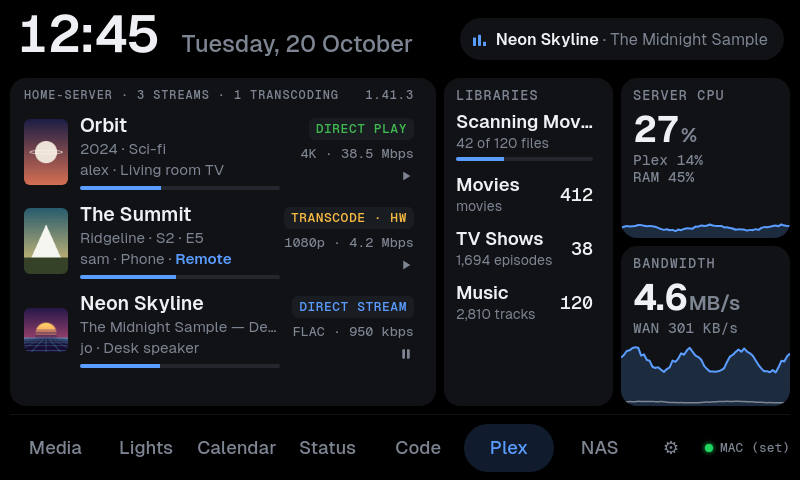
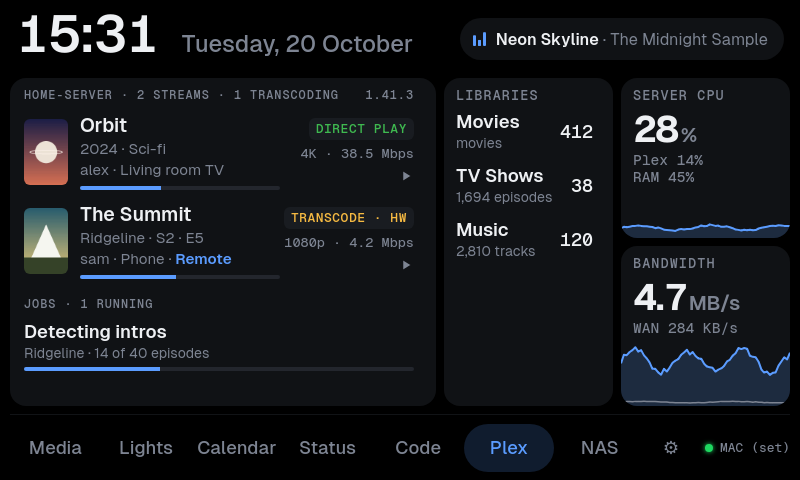
Show library scans and scheduled tasks as Jobs under the Plex streams

diff --git a/device/web/index.html b/device/web/index.html
@@ -417,6 +417,8 @@
   .nas-alert { font-size: calc(13px * var(--ts)); color: var(--muted); line-height: 1.3; margin-bottom: 10px;
     display: -webkit-box; -webkit-line-clamp: 3; -webkit-box-orient: vertical; overflow: hidden; }
   .nas .mcard .m-detail { margin-bottom: 10px; }
+  .px-jobs .ag-day { margin-top: 12px; }
+  .px-jobs .ag-empty { margin-top: 2px; }
   .monitor { flex: 1; min-width: 0; display: grid; grid-template-columns: repeat(4, 1fr); grid-template-rows: minmax(0, 1fr); grid-gap: 8px; }
   .monitor.half { grid-template-columns: 1fr 1fr; grid-template-rows: minmax(0, 1fr) minmax(0, 1fr); }
   .mcard { background: var(--tile); border-radius: 16px; padding: 10px 12px 0; display: flex; flex-direction: column;
@@ -2011,7 +2013,7 @@ function plexLibrary(l) {
   return '<div class="px-lib"><div class="ev-main"><div class="ev-title">' + esc(l.title || '') + '</div>' +
     '<div class="ev-sub">' + esc(sub) + '</div></div><div class="px-num">' + fmtCount(l.count) + '</div></div>';
 }
-function plexActivity(a) {       // a library scan or another server task, with its progress
+function plexActivity(a) {       // a library scan or a scheduled task, with its progress
   return '<div class="px-lib"><div class="ev-main"><div class="ev-title">' + esc(a.title || '') + '</div>' +
     '<div class="ev-sub">' + esc(a.sub || '') + '</div>' +
     '<div class="np-bar"><i style="width:' + Math.max(0, Math.min(100, a.progress || 0)) + '%"></i></div></div></div>';
@@ -2031,20 +2033,24 @@ function updatePlex() {
   }
   if (!$('pxs')) {
     box.className = 'plex';
-    box.innerHTML = '<div class="card px-streams" id="pxs"></div><div class="monitor half px-side" id="pxside"></div>';
+    box.innerHTML = '<div class="card px-streams" id="pxs"><h3 id="pxh"></h3><div class="ag-list"><div id="pxsl"></div>' +
+      '<div class="px-jobs" id="pxj"></div></div></div><div class="monitor half px-side" id="pxside"></div>';
     box._html = null;
   }
   var server = p.server || {}, sessions = p.sessions || [], load = p.load, net = p.net;
   var version = (server.version || '').split('.').slice(0, 3).join('.');
   var last = function (a) { return a && a.length ? a[a.length - 1] : null; };
   var plain = function (html) { return html.replace(/<\/?small>/g, ' ').trim(); };
-  redraw($('pxs'), '<h3>' + esc(server.name || 'Plex') + ' · ' +
+  redraw($('pxh'), esc(server.name || 'Plex') + ' · ' +
     (sessions.length ? sessions.length + (sessions.length === 1 ? ' stream' : ' streams') : 'idle') +
     (server.transcodes ? ' · ' + server.transcodes + ' transcoding' : '') +
-    '<span>' + esc(server.update ? 'Update ' + server.update : version) + '</span></h3><div class="ag-list">' +
-    (sessions.length ? sessions.map(plexRow).join('')
-      : '<div class="ag-empty"><b>Nothing streaming</b>' + (server.update ? esc('Plex ' + server.update + ' is out') : '') + '</div>') +
-    '</div>');
+    '<span>' + esc(server.update ? 'Update ' + server.update : version) + '</span>');
+  redraw($('pxsl'), sessions.length ? sessions.map(plexRow).join('')
+    : '<div class="ag-empty"><b>Nothing streaming</b>' + (server.update ? esc('Plex ' + server.update + ' is out') : '') + '</div>');
+  // Library scans and the scheduled tasks (Settings → Scheduled Tasks in Plex) while they run.
+  var jobs = p.activities || [];
+  redraw($('pxj'), '<div class="ag-day">Jobs' + (jobs.length ? ' · ' + jobs.length + ' running' : '') + '</div>' +
+    (jobs.length ? jobs.map(plexActivity).join('') : '<div class="ag-empty">None running</div>'));
   var bars = $('pxs').querySelectorAll('.px-row .np-bar i');
   sessions.forEach(function (s, i) {
     if (bars[i]) bars[i].style.width = (s.duration_ms ? Math.min(100, (s.position_ms || 0) / s.duration_ms * 100) : 0) + '%';
@@ -2062,7 +2068,7 @@ function updatePlex() {
     bw = mcard('Bandwidth', fmtRate(last(total)), 'WAN ' + plain(fmtRate(last(net.wan))),
       spark(total, max, 'v', true, total.length) + spark(net.wan, max, 'tx', false, total.length));
   }
-  var libs = (p.activities || []).map(plexActivity).join('') + (p.libraries || []).map(plexLibrary).join('');
+  var libs = (p.libraries || []).map(plexLibrary).join('');
   redraw($('pxside'), cpu + bw + '<div class="mcard px-libs"><div class="m-label">Libraries</div><div class="ag-list">' +
     (libs || '<div class="ag-empty">Counting…</div>') + '</div></div>');
 }

diff --git a/docs/screenshots/take.py b/docs/screenshots/take.py
@@ -225,16 +225,13 @@ def plex(with_posters):
             {'id': 's2', 'kind': 'episode', 'title': 'The Summit', 'sub': 'Ridgeline · S2 · E5', 'user': 'sam', 'player': 'Phone',
              'state': 'playing', 'position_ms': 1300000, 'duration_ms': 2700000, 'decision': 'transcode', 'hw': True,
              'quality': '1080p', 'kbps': 4200, 'local': False, 'art': 'summit'},
-            {'id': 's3', 'kind': 'track', 'title': 'Neon Skyline', 'sub': 'The Midnight Sample — Demo Tapes', 'user': 'jo',
-             'player': 'Desk speaker', 'state': 'paused', 'position_ms': 96000, 'duration_ms': 241000,
-             'decision': 'direct stream', 'hw': False, 'quality': 'FLAC', 'kbps': 950, 'local': True, 'art': 'neon'},
         ],
         'load': {'cpu': wave(24, 6, 60, 4), 'mem': wave(45, 2, 60, 9), 'plex_cpu': 14.2, 'plex_mem': 6.1},
         'net': {'lan': [int(x * 100000) for x in wave(36, 9, 60, 3)], 'wan': [int(x * 10000) for x in wave(34, 6, 60, 5)]},
         'libraries': [{'title': 'Movies', 'kind': 'movie', 'count': 412},
                       {'title': 'TV Shows', 'kind': 'show', 'count': 38, 'episodes': 1694},
                       {'title': 'Music', 'kind': 'artist', 'count': 120, 'albums': 236, 'tracks': 2810}],
-        'activities': [{'title': 'Scanning Movies', 'sub': '42 of 120 files', 'progress': 35}],
+        'activities': [{'title': 'Detecting intros', 'sub': 'Ridgeline · 14 of 40 episodes', 'progress': 35}],
         'server': {'name': 'home-server', 'version': '1.41.3.9314', 'update': None, 'transcodes': 1},
     }
     if with_posters:

diff --git a/README.md b/README.md
@@ -61,8 +61,8 @@ The Car Thing's screen is 800×480. These use made-up demo data; to retake them,
 | **Volume bar:** shows when the volume changes | **Lock screen:** while the computer is locked |
 | ![Lights page: Philips Hue rooms and zones tinted with their light color, with switches and brightness bars](docs/screenshots/lights.png) | ![A room card: brightness, warm-to-cool white, scenes and its lights](docs/screenshots/room.png) |
 | **Lights:** Philips Hue rooms and zones, with the song playing in the top bar | **A room:** brightness, white, scenes, each light |
-| ![Plex page: three streams with posters and transcode tags, the server's CPU and bandwidth graphs, and the libraries](docs/screenshots/plex.png) | ![NAS page: TrueNAS pools as tanks that fill up, disk temperatures, alerts and apps](docs/screenshots/nas.png) |
-| **Plex:** streams and how each is sent, server load, libraries | **NAS:** TrueNAS pools, disks, alerts and apps |
+| ![Plex page: two streams with posters and transcode tags, a running job, the server's CPU and bandwidth graphs, and the libraries](docs/screenshots/plex.png) | ![NAS page: TrueNAS pools as tanks that fill up, disk temperatures, alerts and apps](docs/screenshots/nas.png) |
+| **Plex:** streams and how each is sent, running jobs, server load, libraries | **NAS:** TrueNAS pools, disks, alerts and apps |
 | ![Settings, General: brightness, host OS, keyboard layout, dial direction and clock format](docs/screenshots/general.png) | ![Settings, Appearance: themes, accent colors, the hue slider and icon options](docs/screenshots/settings.png) |
 | **Settings → General:** brightness, host OS, layout | **Settings → Appearance** |
 | ![Settings, Tabs: the pages in order with up and down arrows](docs/screenshots/tabs.png) | ![A meeting reminder over the Media page: a countdown with Join meeting and Dismiss](docs/screenshots/reminder.png) |
@@ -204,9 +204,10 @@ them to the Car Thing **over the USB cable** (`adb forward`; no network):
   list to fetch it right away (see [Adding GitHub](#adding-github)).
 - **Plex:** the streams on your Plex Media Server. Each stream shows its poster, the
   user and player, the progress and the quality. A tag shows how the server sends it:
-  direct play, direct stream, or transcode (HW for a hardware transcode). Next to the
-  streams are graphs of the server's CPU and bandwidth, and the size of each library,
-  with any library scan in progress. The graphs need Plex Pass. The page refreshes
+  direct play, direct stream, or transcode (HW for a hardware transcode). Under the
+  streams are the jobs that run now, with their progress: library scans and the
+  scheduled tasks (Settings → Scheduled Tasks in Plex). Next to the streams are graphs
+  of the server's CPU and bandwidth, and the size of each library. The graphs need Plex Pass. The page refreshes
   every 3 seconds while it's on screen, every 30 seconds otherwise (see
   [Connecting Plex](#connecting-plex)).
 - **NAS (TrueNAS):** each pool as a tank that fills up (yellow from 80%, red from 90%)

diff --git a/device/README.md b/device/README.md
@@ -317,7 +317,8 @@ because Plex items can have keys that differ only in case (`guid` and `Guid`).
 `ConvertFrom-Json` in Windows PowerShell refuses those keys.
 
 Every 3 s while the Plex page is on screen (every 30 s otherwise, see [What updates
-when](#what-updates-when)) the agent reads `/`, `/status/sessions`, `/activities`,
+when](#what-updates-when)) the agent reads `/`, `/status/sessions`, `/activities` (library scans and
+scheduled tasks while they run, shown as Jobs under the streams),
 and the server's own history of load and bandwidth (`/statistics/resources` and
 `/statistics/bandwidth`, Plex Pass only). Then it posts the result to `POST /api/plex`. Every 5 minutes it
 counts the items of each library and reads `/updater/status`. A count is one request
